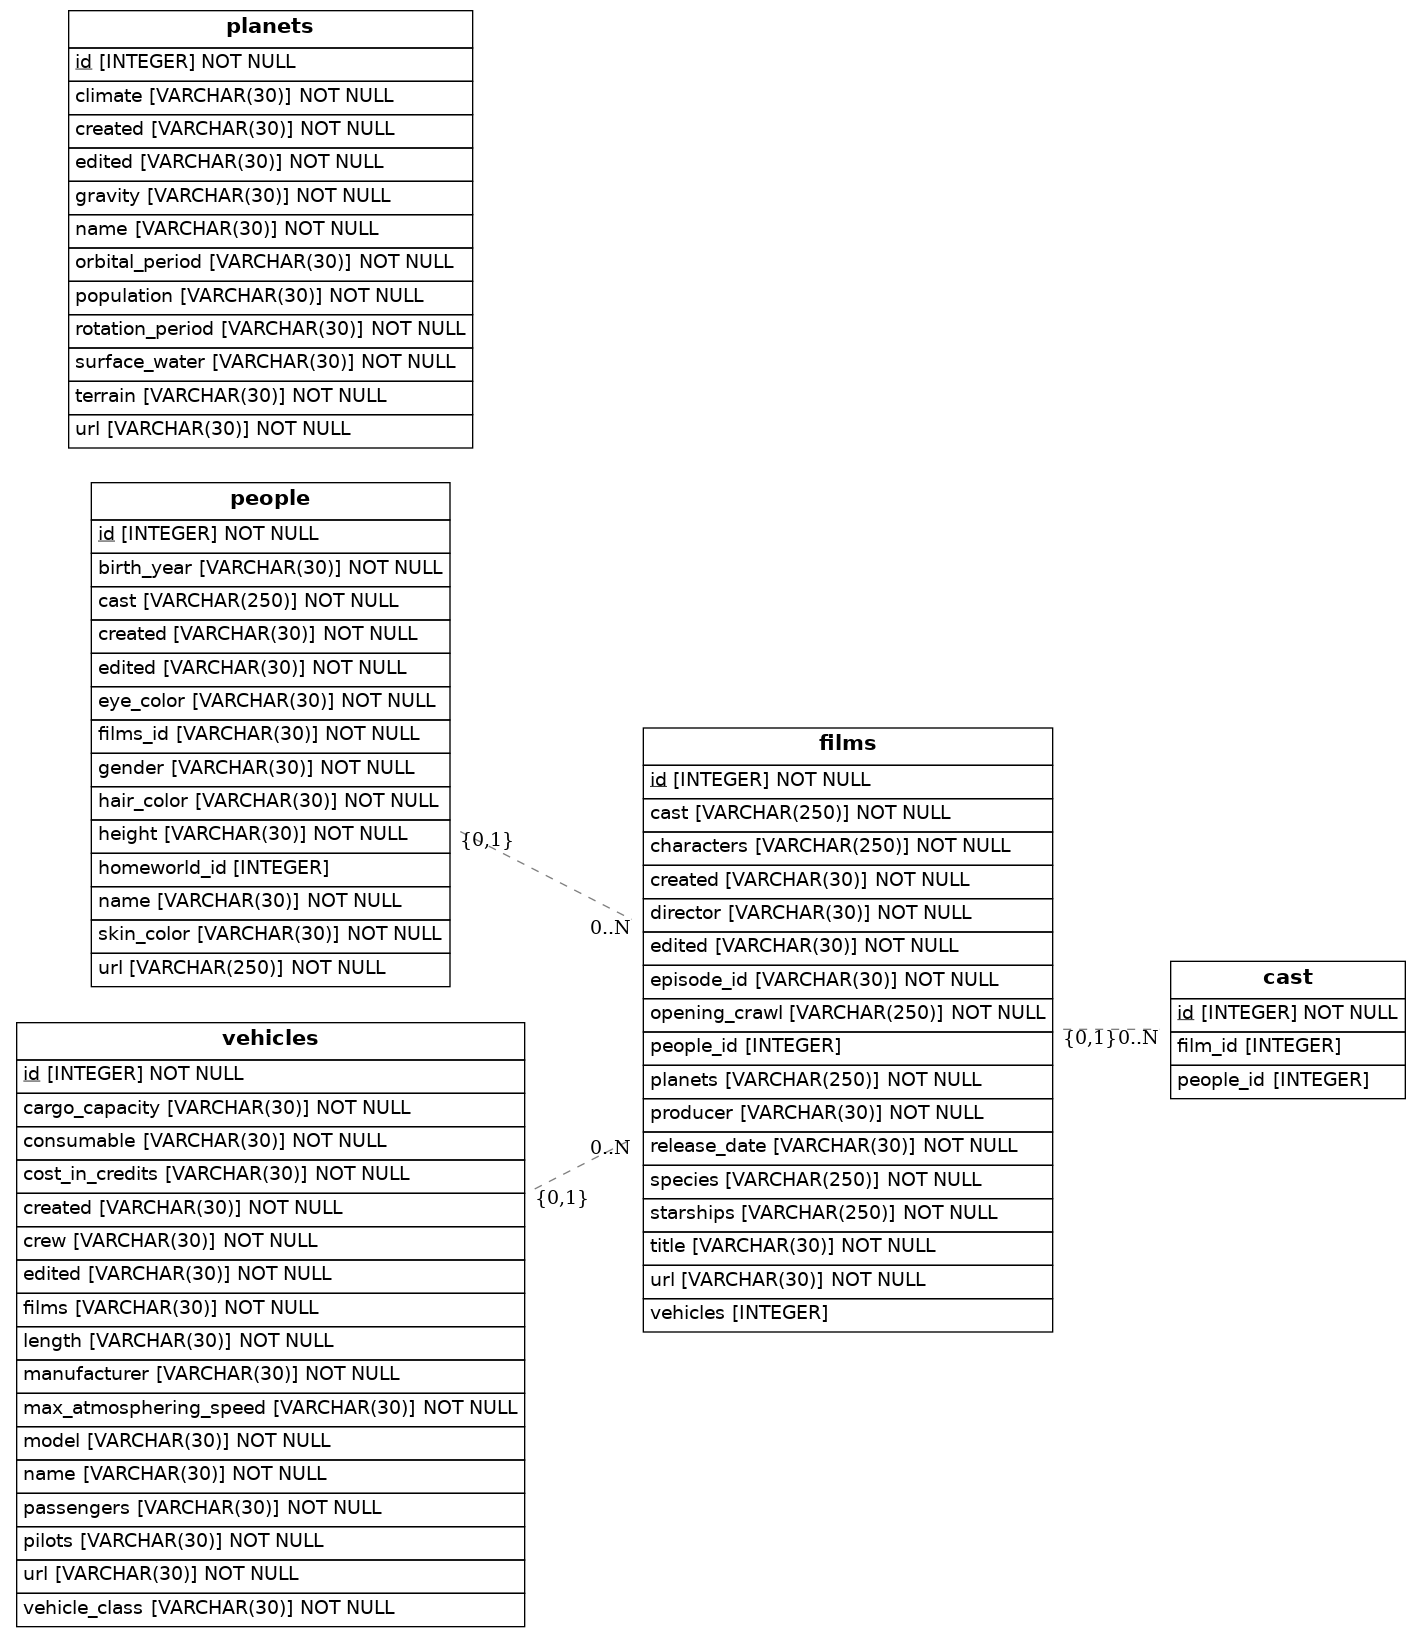
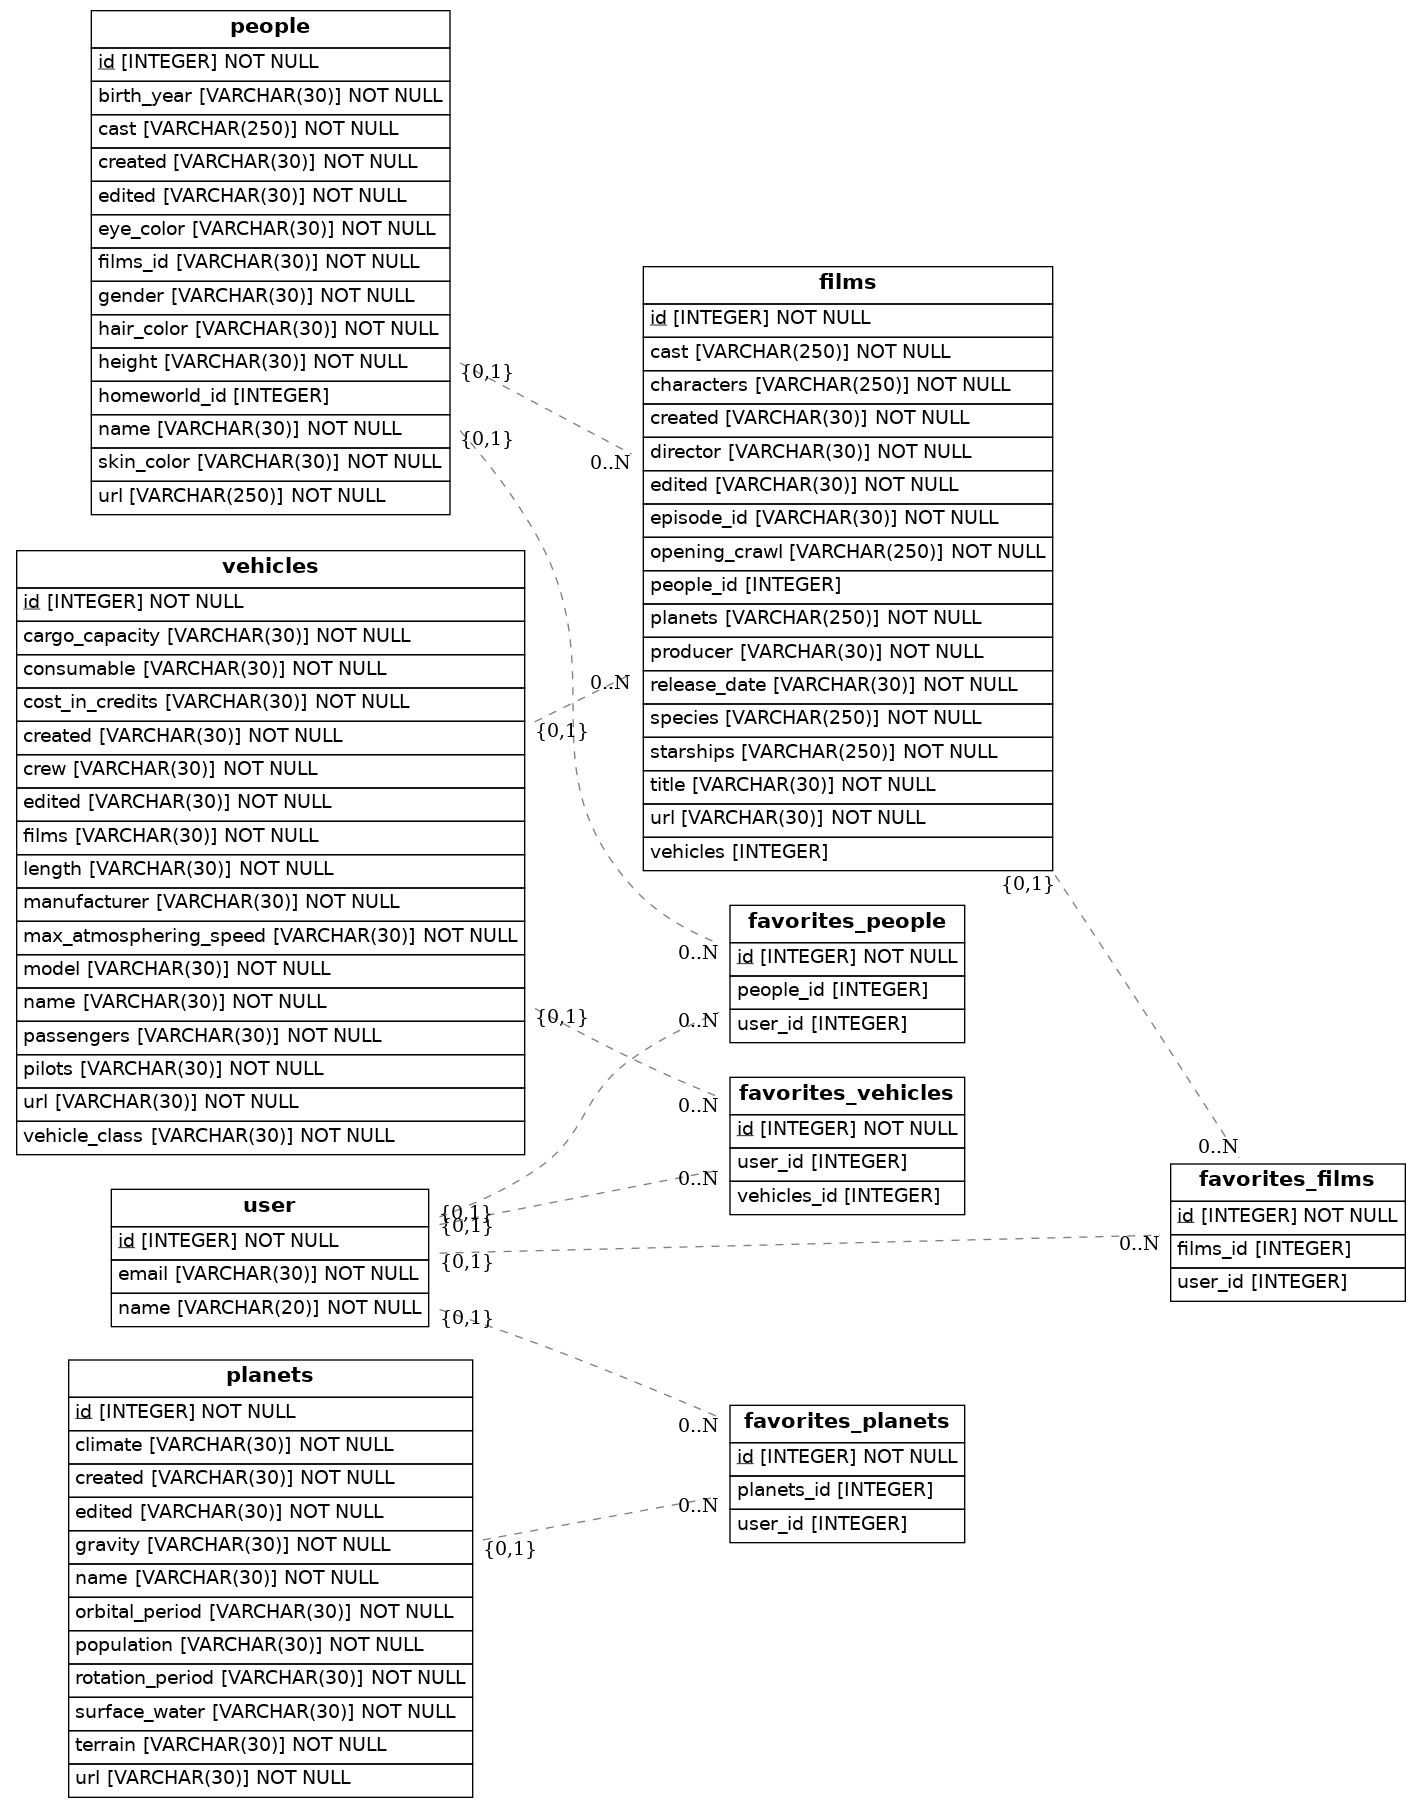
terminado

diff --git a/src/models.py b/src/models.py
@@ -90,14 +90,43 @@ class Planets(Base):
     created = Column(String(30), nullable=False)
     edited = Column(String(30), nullable=False)
     url = Column(String(30), nullable=False)
+    people_id = relationship("People")
 
-class Cast(Base):
-    __tablename__ = 'cast'
+
+class User(Base):
+    __tablename__ = 'user'
     id = Column(Integer, primary_key=True)
-    film_id = Column(Integer, ForeignKey("films.id"))
-    film = relationship("Films", backref="cast")
-    people_id = Column(Integer, ForeignKey("people_id"))
-    people = relationship("people")
+    name = Column(String(20), nullable=False)
+    email = Column(String(30), nullable=False)
+
+
+class Favorites_planets(Base):
+    __tablename__ = 'favorites_planets'
+    id = Column(Integer, primary_key=True)
+    user_id = Column(Integer, ForeignKey('user.id'))
+    planets_id = Column(Integer, ForeignKey('planets.id'))
+
+    
+class Favorites_people(Base):
+    __tablename__ = 'favorites_people'
+    id = Column(Integer, primary_key=True)
+    user_id = Column(Integer, ForeignKey('user.id'))
+    people_id = Column(Integer, ForeignKey('people.id'))
+
+
+class Favorites_vehicles(Base):
+    __tablename__ = 'favorites_vehicles'
+    id = Column(Integer, primary_key=True)
+    user_id = Column(Integer, ForeignKey('user.id'))
+    vehicles_id = Column(Integer, ForeignKey('vehicles.id'))
+
+
+class Favorites_films(Base):
+    __tablename__ = 'favorites_films'
+    id = Column(Integer, primary_key=True)
+    user_id = Column(Integer, ForeignKey('user.id'))
+    films_id = Column(Integer, ForeignKey('films.id'))
+
 
     def to_dict(self):
         return {}
